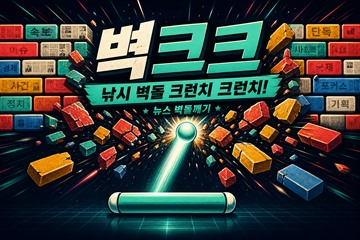
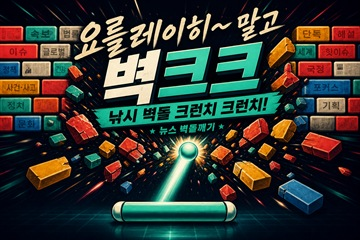
Update Brickrunch representative artwork

diff --git a/arcade/brickrunch/index.html b/arcade/brickrunch/index.html
@@ -15,12 +15,12 @@
   <meta property="og:type" content="website"><meta property="og:locale" content="ko_KR">
   <meta property="og:title" content="벽크크 (Brickrunch)"><meta property="og:description" content="낚시성 제목 벽돌을 크런치크런치 부수면 오늘의 진짜 뉴스가 드러납니다.">
   <meta property="og:url" content="https://visual.newsis.com/arcade/brickrunch/"><meta property="og:site_name" content="VISUAL NEWSIS">
-  <meta property="og:image" content="https://visual.newsis.com/arcade/brickrunch/assets/og-brickrunch-v2-1200x630.jpg"><meta property="og:image:secure_url" content="https://visual.newsis.com/arcade/brickrunch/assets/og-brickrunch-v2-1200x630.jpg"><meta property="og:image:type" content="image/jpeg"><meta property="og:image:width" content="1200"><meta property="og:image:height" content="630"><meta property="og:image:alt" content="벽크크 뉴스 벽돌깨기 게임">
-  <meta name="twitter:card" content="summary_large_image"><meta name="twitter:title" content="벽크크 (Brickrunch)"><meta name="twitter:description" content="낚시성 제목 벽돌을 크런치크런치 부수면 오늘의 진짜 뉴스가 드러납니다."><meta name="twitter:image" content="https://visual.newsis.com/arcade/brickrunch/assets/og-brickrunch-v2-1200x630.jpg">
+  <meta property="og:image" content="https://visual.newsis.com/arcade/brickrunch/assets/og-brickrunch-v3-1200x630.jpg"><meta property="og:image:secure_url" content="https://visual.newsis.com/arcade/brickrunch/assets/og-brickrunch-v3-1200x630.jpg"><meta property="og:image:type" content="image/jpeg"><meta property="og:image:width" content="1200"><meta property="og:image:height" content="630"><meta property="og:image:alt" content="요를레이히 말고 벽크크 — 뉴스 벽돌깨기 게임"><meta property="og:updated_time" content="2026-09-02T09:30:00+09:00">
+  <meta name="twitter:card" content="summary_large_image"><meta name="twitter:title" content="벽크크 (Brickrunch)"><meta name="twitter:description" content="낚시성 제목 벽돌을 크런치크런치 부수면 오늘의 진짜 뉴스가 드러납니다."><meta name="twitter:image" content="https://visual.newsis.com/arcade/brickrunch/assets/og-brickrunch-v3-1200x630.jpg"><meta name="twitter:image:alt" content="요를레이히 말고 벽크크 — 뉴스 벽돌깨기 게임">
   <script async src="https://www.googletagmanager.com/gtag/js?id=G-6BKMWE02W5"></script>
   <script>window.dataLayer=window.dataLayer||[];function gtag(){dataLayer.push(arguments)}gtag('js',new Date());gtag('config','G-6BKMWE02W5');</script>
   <link rel="stylesheet" href="./style.css?v=20260829-4">
-  <script type="application/ld+json">{"@context":"https://schema.org","@graph":[{"@type":"Game","name":"벽크크","alternateName":["Brickrunch","브릭크런치","벽돌 크런치 크런치","벽돌깨기","아르카노이드","클릭베이트 벽돌깨기","뿌셔뿌셔"],"url":"https://visual.newsis.com/arcade/brickrunch/","description":"낚시성 제목이 적힌 벽돌을 크런치크런치 깨면 오늘 실제로 발행된 진짜 헤드라인이 드러나는 무료 미니게임","genre":["Arcade game","Breakout","News game"],"inLanguage":"ko-KR","isAccessibleForFree":true,"creator":{"@type":"Person","name":"안재현","jobTitle":["크리에이티브 디렉터","뉴시스 기자"],"worksFor":{"@type":"NewsMediaOrganization","name":"뉴시스","url":"https://www.newsis.com/"}},"isPartOf":{"@type":"CollectionPage","name":"충무로딩","url":"https://visual.newsis.com/arcade/"},"publisher":{"@type":"NewsMediaOrganization","name":"뉴시스","url":"https://www.newsis.com/"}},{"@type":"BreadcrumbList","itemListElement":[{"@type":"ListItem","position":1,"name":"VISUAL NEWSIS","item":"https://visual.newsis.com/"},{"@type":"ListItem","position":2,"name":"충무로딩","item":"https://visual.newsis.com/arcade/"},{"@type":"ListItem","position":3,"name":"벽크크","item":"https://visual.newsis.com/arcade/brickrunch/"}]}]}</script>
+  <script type="application/ld+json">{"@context":"https://schema.org","@graph":[{"@type":"Game","name":"벽크크","alternateName":["Brickrunch","브릭크런치","벽돌 크런치 크런치","벽돌깨기","아르카노이드","클릭베이트 벽돌깨기","뿌셔뿌셔"],"url":"https://visual.newsis.com/arcade/brickrunch/","image":"https://visual.newsis.com/arcade/brickrunch/assets/og-brickrunch-v3-1200x630.jpg","description":"낚시성 제목이 적힌 벽돌을 크런치크런치 깨면 오늘 실제로 발행된 진짜 헤드라인이 드러나는 무료 미니게임","genre":["Arcade game","Breakout","News game"],"inLanguage":"ko-KR","isAccessibleForFree":true,"creator":{"@type":"Person","name":"안재현","jobTitle":["크리에이티브 디렉터","뉴시스 기자"],"worksFor":{"@type":"NewsMediaOrganization","name":"뉴시스","url":"https://www.newsis.com/"}},"isPartOf":{"@type":"CollectionPage","name":"충무로딩","url":"https://visual.newsis.com/arcade/"},"publisher":{"@type":"NewsMediaOrganization","name":"뉴시스","url":"https://www.newsis.com/"}},{"@type":"BreadcrumbList","itemListElement":[{"@type":"ListItem","position":1,"name":"VISUAL NEWSIS","item":"https://visual.newsis.com/"},{"@type":"ListItem","position":2,"name":"충무로딩","item":"https://visual.newsis.com/arcade/"},{"@type":"ListItem","position":3,"name":"벽크크","item":"https://visual.newsis.com/arcade/brickrunch/"}]}]}</script>
   <link rel="stylesheet" href="../assets/arcade-more-games.css?v=20260901-1">
 </head>
 <body>

diff --git a/arcade/index.html b/arcade/index.html
@@ -54,7 +54,7 @@
       <div class="game-list">
         <a class="game-card game-card--puzzle" href="./puzzle/"><span class="number">01</span><span class="visual visual--screen" aria-hidden="true"><img src="./assets/thumbnails/puzzle-safe-v2-360x240.jpg?v=20260812-1" alt=""></span><span class="copy"><small>NEWS PHOTO PUZZLE · 약 3분</small><strong>조각 사진관</strong><p>사진 뒤의 오늘</p><b>조각 맞추기 ↗</b></span></a>
         <a class="game-card game-card--omok" href="./omok/"><span class="number">02</span><span class="visual visual--screen" aria-hidden="true"><img src="./assets/thumbnails/news-omok-safe-v2-360x240.jpg?v=20260812-1" alt=""></span><span class="copy"><small>AI BOARD GAME · 약 3분</small><strong>뉴스 오목</strong><p>당신의 한 수</p><b>대국 시작 ↗</b></span></a>
-        <a class="game-card game-card--brickrunch" href="./brickrunch/"><span class="number">03</span><span class="new-badge" aria-label="새로 공개">NEW</span><span class="visual visual--screen" aria-hidden="true"><img src="./brickrunch/assets/thumbnail-360x240.jpg?v=20260831-2" alt=""></span><span class="copy"><small>NEWS BRICK BREAKER · 약 2분</small><strong>벽크크</strong><p>낚시 벽돌 크런치 크런치!</p><b>벽돌 깨기 ↗</b></span></a>
+        <a class="game-card game-card--brickrunch" href="./brickrunch/"><span class="number">03</span><span class="new-badge" aria-label="새로 공개">NEW</span><span class="visual visual--screen" aria-hidden="true"><img src="./brickrunch/assets/thumbnail-360x240.jpg?v=20260902-1" alt=""></span><span class="copy"><small>NEWS BRICK BREAKER · 약 2분</small><strong>벽크크</strong><p>낚시 벽돌 크런치 크런치!</p><b>벽돌 깨기 ↗</b></span></a>
         <a class="game-card game-card--minesweeper" href="./minesweeper/"><span class="number">04</span><span class="new-badge" aria-label="새로 공개">NEW</span><span class="visual visual--screen" aria-hidden="true"><img src="./minesweeper/assets/thumbnail-360x240.jpg?v=20260901-1" alt=""></span><span class="copy"><small>NEWS MINESWEEPER · 약 3분</small><strong>가짜뉴스 지뢰찾기</strong><p>지뢰를 피해 만나는 진짜 뉴스</p><b>지뢰찾기 시작 ↗</b></span></a>
         <a class="game-card game-card--chungmuman" href="./chungmuman/"><span class="number">05</span><span class="visual visual--screen" aria-hidden="true"><img src="./assets/thumbnails/chungmuman-safe-v2-360x240.jpg?v=20260812-1" alt=""></span><span class="copy"><small>NEWS RUNNER · 약 1분</small><strong>충무맨</strong><p>마감을 피해 뉴스를 모아주세요</p><b>취재 시작 ↗</b></span></a>
         <a class="game-card game-card--dododok" href="./dododok/"><span class="number">06</span><span class="new-badge" aria-label="새로 공개">NEW</span><span class="visual visual--screen" aria-hidden="true"><img src="./dododok/assets/thumbnail-360x240.jpg?v=20260831-2" alt=""></span><span class="copy"><small>NEWS TYPING · 약 3분</small><strong>넌 내 도도독</strong><p>뉴스 제목을 도도독!</p><b>타자 시작 ↗</b></span></a>
